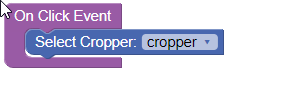
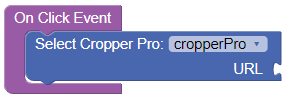
update

diff --git a/EndlessCropper/README.md b/EndlessCropper/README.md
@@ -44,9 +44,11 @@ A resizable crop area is shown after an image has been selected or pasted. Butto
 For each Codeless Block of an action, you have to select the ``Id`` of the custom component instance, which you placed on the page.
 
 ### Select
-*Input parameters:* None
+*Input parameters:*
 
-An image selection dialog is shown, which depends on the device. On mobiles, you can typically capture a live camera image, or select an existing image from the device.
+- ``URL``: (**Pro-version only**) Optional. If a URL is provided via this parameter, the initial image is loaded from this URL. If this parameter is not set, an image selection dialog is shown, which depends on the device. On mobiles, you can then typically capture a live camera image, or select an existing image from the device.
+
+For the non-Pro-version, this parameter is not available, so that always the image selection dialog is shown.
 
 *Example*:
 
@@ -239,3 +241,6 @@ If you experience issues, you can [open an issue](https://github.com/klako-web/E
 This product includes the following external code libraries/components:
 
 - [react-advanced-cropper](https://github.com/advanced-cropper/react-advanced-cropper) licensed under the [MIT License](https://github.com/advanced-cropper/react-advanced-cropper/blob/master/LICENSE)
+
+## Restrictions
+This component does not work with Microsoft Internet Explorer.
